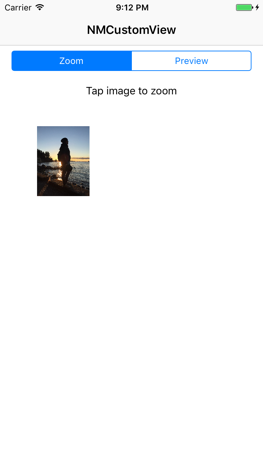
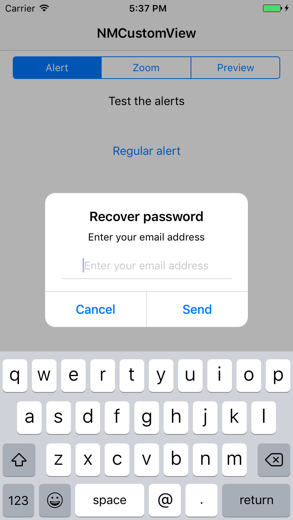
README.md updated

diff --git a/README.md b/README.md
@@ -1,15 +1,11 @@
 # NMCustomView
-NMCustomView allow users to show, on top of the actual view controller, a customized UIView (xib file). In the demo project the NMCustomView is used to show your custom alert, to zoom in on an image and to show the preview of an item in a CollectionView (using Long Press).
-example.
+NMCustomView allow users to show, on top of the actual view controller, a customized UIView (xib file). In the demo project the NMCustomView is used to show a custom alert, to zoom in on an image and to show the preview of an item in a CollectionView (using Long Press).
 
 You can customize NMCustomView to dismiss on background tap gesture and to use blur effect.
 
 ## Screenshots
 
- ![Zoom select](https://github.com/nmacambira/NMCustomView/blob/master/Images/NMCustomView1.png) | ![Zoom image](https://github.com/nmacambira/NMCustomView/blob/master/Images/NMCustomView2.png) 
-
-
- ![Preview select](https://github.com/nmacambira/NMCustomView/blob/master/Images/NMCustomView3.png) | ![Preview image](https://github.com/nmacambira/NMCustomView/blob/master/Images/NMCustomView4.png)  
+ ![Alert image](https://github.com/nmacambira/NMCustomView/blob/master/Images/NMCustomView1.png)  ![Zoom image](https://github.com/nmacambira/NMCustomView/blob/master/Images/NMCustomView2.png)  ![Preview image](https://github.com/nmacambira/NMCustomView/blob/master/Images/NMCustomView3.png)
 
 ## Usage 
 
